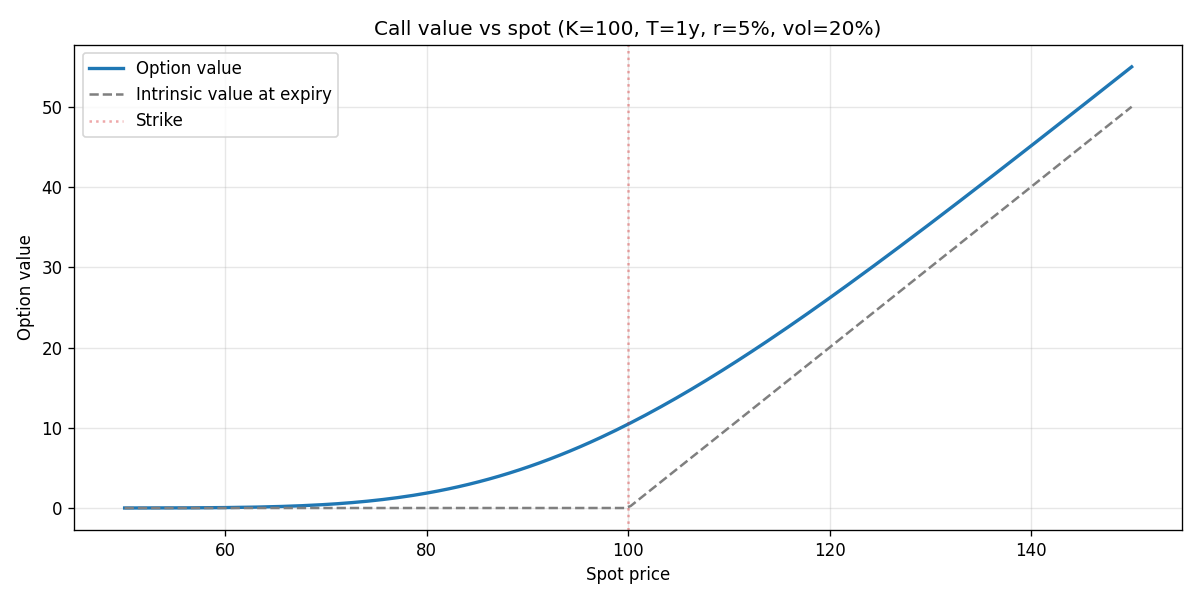
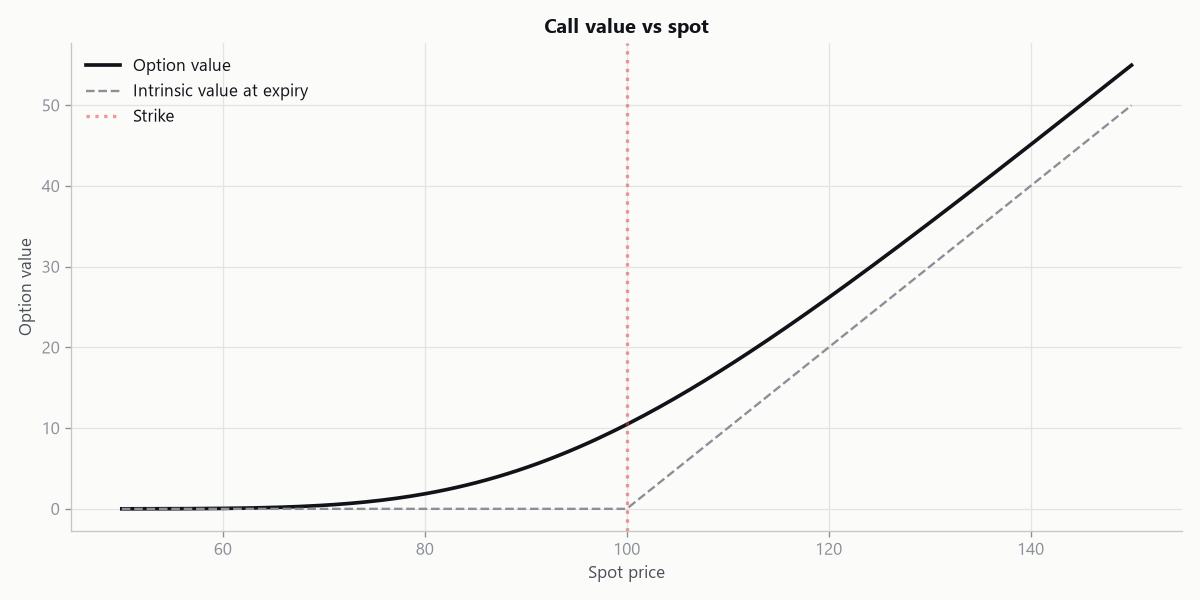
Link the live calculator from the README; apply validated chart style
The interactive calculator was already deployed and working at
kelsonlam.github.io/options-pricing but the README only linked to the
local docs/index.html file (which just shows raw source on GitHub) and
hedged with "if Pages is enabled" rather than confirming it. Added a
direct live link and screenshot at the top of the README instead.

Verified end to end: pytest (17/17) passes, and a live run of
price_option.py with the Monte Carlo cross-check enabled confirms the
analytic price (10.4506) against an independent simulation (10.4645),
matching the value shown by the live calculator for the same inputs.
Applied viz_style.py to the Python-side charts, matching the other
quant-finance repos; the Greeks panel already used small multiples
correctly rather than a dual axis.

diff --git a/src/options_pricing/viz_style.py b/src/options_pricing/viz_style.py
@@ -1,0 +1,53 @@
+"""Shared chart style: a validated categorical palette on a clean light
+surface, styled for a quant/analytics register rather than matplotlib
+defaults."""
+
+from __future__ import annotations
+
+import matplotlib as mpl
+from matplotlib.colors import LinearSegmentedColormap
+
+SURFACE = "#fbfbfa"
+INK = "#111318"
+INK_2 = "#4b4f58"
+MUTED = "#8b8f98"
+GRID = "#e4e4e2"
+BASELINE = "#c7c7c4"
+
+# Fixed-order categorical set (validated: adjacent-pair CVD dE >= 8, normal
+# vision floor >= 15 on this surface). Never cycle past what's needed.
+SERIES = ["#2a78d6", "#eb6834", "#1baf7a", "#4a3aa7", "#e34948", "#eda100"]
+BLUE, ORANGE, AQUA, VIOLET, RED, YELLOW = SERIES
+
+DIVERGE_NEG, DIVERGE_MID, DIVERGE_POS = "#e34948", "#f0efec", "#2a78d6"
+
+
+def apply() -> None:
+    mpl.rcParams.update({
+        "figure.facecolor": SURFACE,
+        "axes.facecolor": SURFACE,
+        "savefig.facecolor": SURFACE,
+        "axes.edgecolor": BASELINE,
+        "axes.labelcolor": INK_2,
+        "axes.titlecolor": INK,
+        "axes.titleweight": "bold",
+        "axes.titlesize": 12,
+        "axes.grid": True,
+        "grid.color": GRID,
+        "grid.linewidth": 0.8,
+        "axes.spines.top": False,
+        "axes.spines.right": False,
+        "xtick.color": MUTED,
+        "ytick.color": MUTED,
+        "text.color": INK,
+        "font.family": "sans-serif",
+        "font.sans-serif": ["Segoe UI", "Arial", "sans-serif"],
+        "lines.linewidth": 2,
+        "legend.frameon": False,
+        "figure.dpi": 120,
+    })
+
+
+def diverging_cmap():
+    return LinearSegmentedColormap.from_list(
+        "diverge", [DIVERGE_NEG, DIVERGE_MID, DIVERGE_POS])

diff --git a/src/options_pricing/plotting.py b/src/options_pricing/plotting.py
@@ -12,7 +12,7 @@ from pathlib import Path
 import matplotlib.pyplot as plt
 import numpy as np
 
-from . import black_scholes, greeks
+from . import black_scholes, greeks, viz_style
 
 
 def plot_price_vs_spot(
@@ -20,6 +20,7 @@ def plot_price_vs_spot(
     spot_range=None, title=None,
 ):
     """Option value against spot, with the intrinsic payoff for comparison."""
+    viz_style.apply()
     if spot_range is None:
         spot_range = np.linspace(0.5 * K, 1.5 * K, 200)
     values = [black_scholes.price(s, K, T, r, sigma, option_type, q) for s in spot_range]
@@ -29,15 +30,16 @@ def plot_price_vs_spot(
         intrinsic = np.maximum(K - spot_range, 0.0)
 
     fig, ax = plt.subplots(figsize=(10, 5))
-    ax.plot(spot_range, values, label="Option value", color="tab:blue", linewidth=2)
+    ax.plot(spot_range, values, label="Option value", color=viz_style.INK,
+           linewidth=2.2)
     ax.plot(spot_range, intrinsic, label="Intrinsic value at expiry",
-            color="tab:gray", linestyle="--")
-    ax.axvline(K, color="tab:red", alpha=0.4, linestyle=":", label="Strike")
+            color=viz_style.MUTED, linestyle="--", linewidth=1.4)
+    ax.axvline(K, color=viz_style.RED, alpha=0.55, linestyle=":",
+              label="Strike")
     ax.set_title(title or f"{option_type.title()} value vs spot")
     ax.set_xlabel("Spot price")
     ax.set_ylabel("Option value")
     ax.legend()
-    ax.grid(True, alpha=0.3)
     fig.tight_layout()
     return fig
 
@@ -46,6 +48,7 @@ def plot_greeks_vs_spot(
     K, T, r, sigma, option_type="call", q=0.0, spot_range=None,
 ):
     """Delta, gamma, vega, and theta across a range of spot prices."""
+    viz_style.apply()
     if spot_range is None:
         spot_range = np.linspace(0.5 * K, 1.5 * K, 200)
 
@@ -62,11 +65,10 @@ def plot_greeks_vs_spot(
         (axes[1, 1], theta, "Theta (per year)"),
     ]
     for ax, series, name in panels:
-        ax.plot(spot_range, series, color="tab:blue")
-        ax.axvline(K, color="tab:red", alpha=0.4, linestyle=":")
-        ax.set_title(name)
+        ax.plot(spot_range, series, color=viz_style.BLUE, linewidth=1.8)
+        ax.axvline(K, color=viz_style.RED, alpha=0.5, linestyle=":")
+        ax.set_title(name, fontsize=11)
         ax.set_xlabel("Spot price")
-        ax.grid(True, alpha=0.3)
     fig.suptitle(f"{option_type.title()} Greeks vs spot", fontsize=14, fontweight="bold")
     fig.tight_layout()
     return fig

diff --git a/README.md b/README.md
@@ -1,5 +1,9 @@
 # Options Pricing (Black-Scholes)
 
+Live: https://kelsonlam.github.io/options-pricing/
+
+![Black-Scholes calculator: sliders for spot, strike, time, rate, volatility and dividend yield, with price, Greeks, and a value-vs-spot curve updating live](docs/media/screenshot.png)
+
 A from-scratch implementation of the Black-Scholes-Merton model: it prices
 European calls and puts, computes all five Greeks analytically, backs implied
 volatility out of a market price, and cross-checks every price against an
@@ -27,10 +31,10 @@ library `statistics.NormalDist`.
 
 ## Try it live
 
-There is an interactive Black-Scholes calculator in [`docs/index.html`](docs/index.html).
-With GitHub Pages enabled on this repo it runs in the browser at
-`https://KelsonLam.github.io/options-pricing/`: drag the sliders and watch the
-price, the Greeks, and the value curve update in real time.
+The calculator above is live at https://kelsonlam.github.io/options-pricing/
+(source: [`docs/index.html`](docs/index.html)). Drag the sliders and watch the
+price, the Greeks, and the value curve update in real time, using the same
+maths as the Python library in this repo.
 
 ## Example output
 